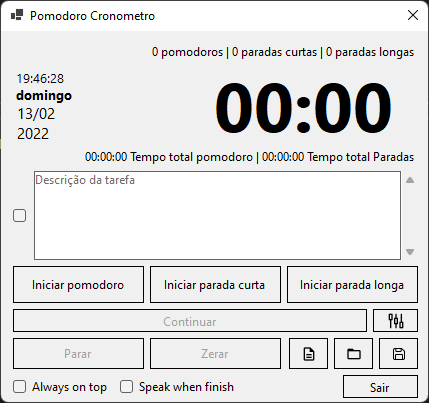
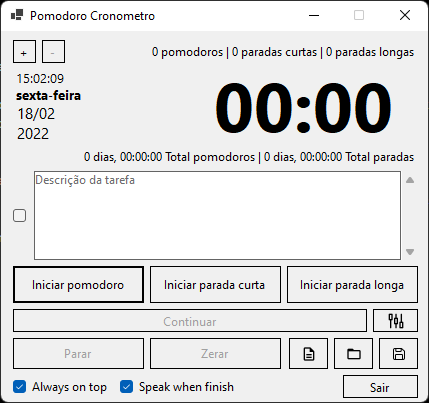
feat: implementação botão adicionar ou remover quantidade de pomodoros

diff --git a/src/Pomodoro.Cronometro.Windows.App/FrmPrincipal.cs b/src/Pomodoro.Cronometro.Windows.App/FrmPrincipal.cs
@@ -26,6 +26,7 @@ namespace Pomodoro.Cronometro.Windows.App
 
         TipoExecucaoCronometro _tipoExecucao = TipoExecucaoCronometro.Nenhum;
         bool _cronometroLigado = false;
+        bool _cronometroParado = false;
         string _valorCronometro = "00:00";
         DateTime? _dataGatilhoInicio = null;
         DateTime? _dataAlvoFim = null;
@@ -114,9 +115,18 @@ namespace Pomodoro.Cronometro.Windows.App
             {
                 _synthesizer.Speak(_builder);
             }
+            ContabilizarTempo();
+            _taskAlterada = true;
+            ZerarInformacoes();
+        }
+
+        void ContabilizarTempo()
+        {
             ExecucaoTempoDto execucao;
-            switch (_tipoExecucao) {
-                case TipoExecucaoCronometro.Pomodoro: {
+            switch (_tipoExecucao)
+            {
+                case TipoExecucaoCronometro.Pomodoro:
+                {
                     _taskDocument.TotalPomodoros += 1;
                     execucao = new ExecucaoTempoDto
                     {
@@ -130,7 +140,8 @@ namespace Pomodoro.Cronometro.Windows.App
                     );
                     break;
                 }
-                case TipoExecucaoCronometro.ParadaCurta: {
+                case TipoExecucaoCronometro.ParadaCurta:
+                {
                     _taskDocument.TotalParadasCurtas += 1;
                     execucao = new ExecucaoTempoDto
                     {
@@ -144,7 +155,8 @@ namespace Pomodoro.Cronometro.Windows.App
                     );
                     break;
                 }
-                case TipoExecucaoCronometro.ParadaLonga: {
+                case TipoExecucaoCronometro.ParadaLonga:
+                {
                     _taskDocument.TotalParadasLongas += 1;
                     execucao = new ExecucaoTempoDto
                     {
@@ -163,8 +175,6 @@ namespace Pomodoro.Cronometro.Windows.App
                     break;
                 }
             }
-            _taskAlterada = true;
-            ZerarInformacoes();
         }
 
         void FormatarValorCronometro(TipoExecucaoTempo tipo)
@@ -275,6 +285,25 @@ namespace Pomodoro.Cronometro.Windows.App
                     }
                 }
             }
+
+            if (!_cronometroLigado && !_cronometroParado)
+            {
+                if (_taskDocument.TotalPomodoros <= 0 && btnMinusPomodoro.Enabled)
+                {
+                    btnMinusPomodoro.Enabled = false;
+                }
+                else if (_taskDocument.TotalPomodoros > 0 && !btnMinusPomodoro.Enabled)
+                {
+                    btnMinusPomodoro.Enabled = true;
+                }
+            }
+
+            if ((ckbAlwaysOnTop.Checked && !this.TopMost) || (ckbAlwaysOnTop.Checked && !this._frmConfiguracao.TopMost))
+            {
+                this.TopMost = ckbAlwaysOnTop.Checked;
+                this._frmConfiguracao.TopMost = ckbAlwaysOnTop.Checked;
+                Application.DoEvents();
+            }
         }
 
         private void Form1_Load(object sender, EventArgs e)
@@ -315,6 +344,8 @@ namespace Pomodoro.Cronometro.Windows.App
             btnIniciarParadaCurta.Enabled = false;
             btnIniciarParadaLonga.Enabled = false;
 
+            btnAddPomodoro.Enabled = false;
+            btnMinusPomodoro.Enabled = false;
             btnNovo.Enabled = false;
             btnSalvar.Enabled = false;
             btnAbrir.Enabled = false;
@@ -357,6 +388,8 @@ namespace Pomodoro.Cronometro.Windows.App
             btnIniciarParadaCurta.Enabled = false;
             btnIniciarParadaLonga.Enabled = false;
 
+            btnAddPomodoro.Enabled = false;
+            btnMinusPomodoro.Enabled = false;
             btnNovo.Enabled = false;
             btnSalvar.Enabled = false;
             btnAbrir.Enabled = false;
@@ -400,6 +433,8 @@ namespace Pomodoro.Cronometro.Windows.App
             btnIniciarParadaCurta.Enabled = false;
             btnIniciarParadaLonga.Enabled = false;
 
+            btnAddPomodoro.Enabled = false;
+            btnMinusPomodoro.Enabled = false;
             btnNovo.Enabled = false;
             btnSalvar.Enabled = false;
             btnAbrir.Enabled = false;
@@ -412,6 +447,7 @@ namespace Pomodoro.Cronometro.Windows.App
 
         private void btnParar_Click(object sender, EventArgs e) {
             _cronometroLigado = false;
+            _cronometroParado = true;
             btnZerar.Enabled = true;
             btnContinuar.Enabled = true;
             btnParar.Enabled = false;
@@ -422,6 +458,7 @@ namespace Pomodoro.Cronometro.Windows.App
         void ZerarInformacoes()
         {
             _cronometroLigado = false;
+            _cronometroParado = false;
             _valorCronometro = "00:00";
             btnIniciarPomodoro.Enabled = true;
             btnIniciarParadaCurta.Enabled = true;
@@ -434,6 +471,8 @@ namespace Pomodoro.Cronometro.Windows.App
             btnConfiguracao.Enabled = true;
             ckbConcluida.Enabled = true;
 
+            btnAddPomodoro.Enabled = true;
+            if (_taskDocument.TotalPomodoros > 0) btnMinusPomodoro.Enabled = true;
             btnNovo.Enabled = true;
             btnSalvar.Enabled = true;
             btnAbrir.Enabled = true;
@@ -455,9 +494,7 @@ namespace Pomodoro.Cronometro.Windows.App
 
         private void checkBox1_CheckedChanged(object sender, EventArgs e)
         {
-            this.TopMost = ckbAlwaysOnTop.Checked;
-            this._frmConfiguracao.TopMost = ckbAlwaysOnTop.Checked;
-            Application.DoEvents();
+            //
         }
 
         private void btnContinuar_Click(object sender, EventArgs e)
@@ -467,6 +504,7 @@ namespace Pomodoro.Cronometro.Windows.App
                 _dataAlvoFim = DateTime.Now.Add(_cronometro.Value);
             }
             _cronometroLigado = true;
+            _cronometroParado = false;
             btnContinuar.Enabled = false;
             btnZerar.Enabled = false;
             btnParar.Enabled = true;
@@ -600,6 +638,81 @@ namespace Pomodoro.Cronometro.Windows.App
             _taskDocument.Concluida = ckbConcluida.Checked;
             AtualizaComponentesCasoTaskConcluida();
             _taskAlterada = true;
+        }
+
+        private void btnAddPomodoro_Click(object sender, EventArgs e)
+        {
+            _tipoExecucao = TipoExecucaoCronometro.Pomodoro;
+            ContabilizarTempo();
+            _taskAlterada = true;
+        }
+
+        private void btnMinusPomodoro_Click(object sender, EventArgs e)
+        {
+            _tipoExecucao = TipoExecucaoCronometro.Pomodoro;
+            ContabilizarDiminuicaoTempo();
+            _taskAlterada = true;
+        }
+
+        void ContabilizarDiminuicaoTempo()
+        {
+            if (_taskDocument.TotalPomodoros <= 0) return;
+            ExecucaoTempoDto execucao;
+            switch (_tipoExecucao)
+            {
+                case TipoExecucaoCronometro.Pomodoro:
+                    {
+                        _taskDocument.TotalPomodoros -= 1;
+                        execucao = new ExecucaoTempoDto
+                        {
+                            TipoExecucao = _taskDocument.TipoTempoPomodoro,
+                            Tempo = _taskDocument.TempoPomodoro,
+                            ValorTimeSpan = ObterTempo(_taskDocument.TipoTempoPomodoro, _taskDocument.TempoPomodoro),
+                            Tipo = TipoExecucaoTempoEnum.Removido
+                        };
+                        _taskDocument.ExecucoesPomodoro.Add(execucao);
+                        _taskDocument.TotalTempoPomodoro = _taskDocument.TotalTempoPomodoro.Subtract(
+                            execucao.ValorTimeSpan
+                        );
+                        break;
+                    }
+                case TipoExecucaoCronometro.ParadaCurta:
+                    {
+                        _taskDocument.TotalParadasCurtas -= 1;
+                        execucao = new ExecucaoTempoDto
+                        {
+                            TipoExecucao = _taskDocument.TipoTempoParadaCurta,
+                            Tempo = _taskDocument.TempoParadaCurta,
+                            ValorTimeSpan = ObterTempo(_taskDocument.TipoTempoParadaCurta, _taskDocument.TempoParadaCurta),
+                            Tipo = TipoExecucaoTempoEnum.Removido
+                        };
+                        _taskDocument.ExecucoesParadasCurtas.Add(execucao);
+                        _taskDocument.TotalTempoParadas = _taskDocument.TotalTempoParadas.Subtract(
+                            execucao.ValorTimeSpan
+                        );
+                        break;
+                    }
+                case TipoExecucaoCronometro.ParadaLonga:
+                    {
+                        _taskDocument.TotalParadasLongas -= 1;
+                        execucao = new ExecucaoTempoDto
+                        {
+                            TipoExecucao = _taskDocument.TipoTempoParadaLonga,
+                            Tempo = _taskDocument.TempoParadaLonga,
+                            ValorTimeSpan = ObterTempo(_taskDocument.TipoTempoParadaLonga, _taskDocument.TempoParadaLonga),
+                            Tipo = TipoExecucaoTempoEnum.Removido,
+                        };
+                        _taskDocument.ExecucoesParadasLongas.Add(execucao);
+                        _taskDocument.TotalTempoParadas = _taskDocument.TotalTempoParadas.Subtract(
+                            execucao.ValorTimeSpan
+                        );
+                        break;
+                    }
+                default:
+                    {
+                        break;
+                    }
+            }
         }
     }
 }

diff --git a/src/Pomodoro.Cronometro.Windows.App/FrmPrincipal.Designer.cs b/src/Pomodoro.Cronometro.Windows.App/FrmPrincipal.Designer.cs
@@ -55,6 +55,8 @@
             this.openDialog = new System.Windows.Forms.OpenFileDialog();
             this.txtDescricao = new System.Windows.Forms.TextBox();
             this.ckbConcluida = new System.Windows.Forms.CheckBox();
+            this.btnAddPomodoro = new System.Windows.Forms.Button();
+            this.btnMinusPomodoro = new System.Windows.Forms.Button();
             this.SuspendLayout();
             // 
             // btnIniciarPomodoro
@@ -105,9 +107,9 @@
             // 
             // lblResumoContadores
             // 
-            this.lblResumoContadores.Location = new System.Drawing.Point(12, 9);
+            this.lblResumoContadores.Location = new System.Drawing.Point(70, 9);
             this.lblResumoContadores.Name = "lblResumoContadores";
-            this.lblResumoContadores.Size = new System.Drawing.Size(405, 23);
+            this.lblResumoContadores.Size = new System.Drawing.Size(347, 23);
             this.lblResumoContadores.TabIndex = 4;
             this.lblResumoContadores.Text = "0 pomodoros | 0 paradas curtas | 0 paradas longas";
             this.lblResumoContadores.TextAlign = System.Drawing.ContentAlignment.MiddleRight;
@@ -212,6 +214,8 @@
             // 
             this.ckbAlwaysOnTop.Anchor = ((System.Windows.Forms.AnchorStyles)((System.Windows.Forms.AnchorStyles.Bottom | System.Windows.Forms.AnchorStyles.Left)));
             this.ckbAlwaysOnTop.AutoSize = true;
+            this.ckbAlwaysOnTop.Checked = true;
+            this.ckbAlwaysOnTop.CheckState = System.Windows.Forms.CheckState.Checked;
             this.ckbAlwaysOnTop.Location = new System.Drawing.Point(12, 347);
             this.ckbAlwaysOnTop.Name = "ckbAlwaysOnTop";
             this.ckbAlwaysOnTop.Size = new System.Drawing.Size(101, 19);
@@ -249,6 +253,8 @@
             // 
             this.ckbSpeakWhenFinish.Anchor = ((System.Windows.Forms.AnchorStyles)((System.Windows.Forms.AnchorStyles.Bottom | System.Windows.Forms.AnchorStyles.Left)));
             this.ckbSpeakWhenFinish.AutoSize = true;
+            this.ckbSpeakWhenFinish.Checked = true;
+            this.ckbSpeakWhenFinish.CheckState = System.Windows.Forms.CheckState.Checked;
             this.ckbSpeakWhenFinish.Location = new System.Drawing.Point(119, 347);
             this.ckbSpeakWhenFinish.Name = "ckbSpeakWhenFinish";
             this.ckbSpeakWhenFinish.Size = new System.Drawing.Size(121, 19);
@@ -328,11 +334,36 @@
             this.ckbConcluida.UseVisualStyleBackColor = true;
             this.ckbConcluida.CheckedChanged += new System.EventHandler(this.ckbConcluida_CheckedChanged);
             // 
+            // btnAddPomodoro
+            // 
+            this.btnAddPomodoro.FlatStyle = System.Windows.Forms.FlatStyle.Flat;
+            this.btnAddPomodoro.Location = new System.Drawing.Point(12, 9);
+            this.btnAddPomodoro.Name = "btnAddPomodoro";
+            this.btnAddPomodoro.Size = new System.Drawing.Size(23, 23);
+            this.btnAddPomodoro.TabIndex = 23;
+            this.btnAddPomodoro.Text = "+";
+            this.btnAddPomodoro.UseVisualStyleBackColor = true;
+            this.btnAddPomodoro.Click += new System.EventHandler(this.btnAddPomodoro_Click);
+            // 
+            // btnMinusPomodoro
+            // 
+            this.btnMinusPomodoro.Enabled = false;
+            this.btnMinusPomodoro.FlatStyle = System.Windows.Forms.FlatStyle.Flat;
+            this.btnMinusPomodoro.Location = new System.Drawing.Point(41, 9);
+            this.btnMinusPomodoro.Name = "btnMinusPomodoro";
+            this.btnMinusPomodoro.Size = new System.Drawing.Size(23, 23);
+            this.btnMinusPomodoro.TabIndex = 24;
+            this.btnMinusPomodoro.Text = "-";
+            this.btnMinusPomodoro.UseVisualStyleBackColor = true;
+            this.btnMinusPomodoro.Click += new System.EventHandler(this.btnMinusPomodoro_Click);
+            // 
             // FrmPrincipal
             // 
             this.AutoScaleDimensions = new System.Drawing.SizeF(7F, 15F);
             this.AutoScaleMode = System.Windows.Forms.AutoScaleMode.Font;
             this.ClientSize = new System.Drawing.Size(427, 371);
+            this.Controls.Add(this.btnMinusPomodoro);
+            this.Controls.Add(this.btnAddPomodoro);
             this.Controls.Add(this.ckbConcluida);
             this.Controls.Add(this.txtDescricao);
             this.Controls.Add(this.btnSalvar);
@@ -360,6 +391,7 @@
             this.Name = "FrmPrincipal";
             this.StartPosition = System.Windows.Forms.FormStartPosition.CenterScreen;
             this.Text = "Pomodoro Cronometro";
+            this.TopMost = true;
             this.FormClosing += new System.Windows.Forms.FormClosingEventHandler(this.FrmPrincipal_FormClosing);
             this.Load += new System.EventHandler(this.Form1_Load);
             this.ResumeLayout(false);
@@ -394,5 +426,7 @@
         private System.Windows.Forms.OpenFileDialog openDialog;
         private System.Windows.Forms.TextBox txtDescricao;
         private System.Windows.Forms.CheckBox ckbConcluida;
+        private System.Windows.Forms.Button btnAddPomodoro;
+        private System.Windows.Forms.Button btnMinusPomodoro;
     }
 }

diff --git a/src/Pomodoro.Cronometro.Windows.App/Dtos/ExecucaoTempoDto.cs b/src/Pomodoro.Cronometro.Windows.App/Dtos/ExecucaoTempoDto.cs
@@ -7,8 +7,10 @@ namespace Pomodoro.Cronometro.Windows.App.Dtos
 {
     public class ExecucaoTempoDto
     {
+        public DateTime? DiaExecucao { get; set; } = DateTime.UtcNow;
         public TipoExecucaoTempo TipoExecucao { get; set; }
         public int Tempo { get; set; }
         public TimeSpan ValorTimeSpan { get; set; }
+        public TipoExecucaoTempoEnum Tipo { get; set; } = TipoExecucaoTempoEnum.Adicionado;
     }
 }

diff --git a/src/Pomodoro.Cronometro.Windows.App/Enum/TipoExecucaoTempoEnum.cs b/src/Pomodoro.Cronometro.Windows.App/Enum/TipoExecucaoTempoEnum.cs
@@ -1,0 +1,12 @@
+using System;
+using System.Collections.Generic;
+using System.Text;
+
+namespace Pomodoro.Cronometro.Windows.App.Enum
+{
+    public enum TipoExecucaoTempoEnum
+    {
+        Adicionado = 1,
+        Removido = 2,
+    }
+}

diff --git a/README.md b/README.md
@@ -16,6 +16,7 @@ Funcionalidades:
 - somar o tempo de paradas longas executadas
 - permite salvar em um arquivo json
 - permite abrir um arquivo json no formato compativel com o sistema
+- adicionar ou remover quantidade de pomodoros
 
 Licensing
 ---------
